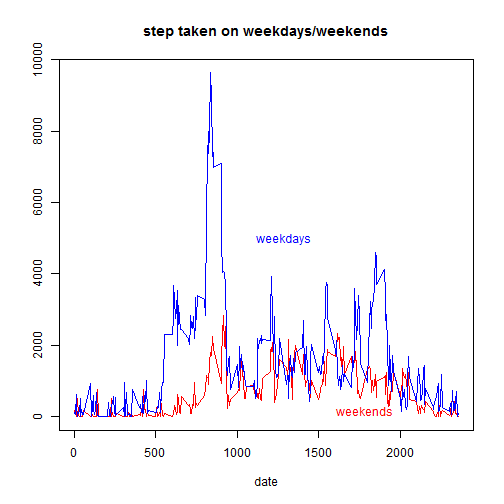
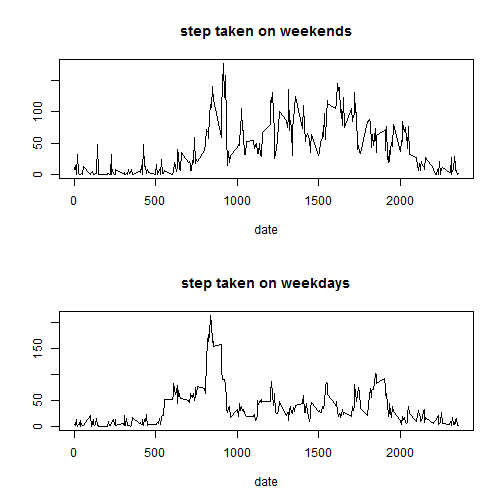
Bug removed
Change sum to mean in comparision weekends and weekdays

diff --git a/PA1_template.html b/PA1_template.html
@@ -295,17 +295,15 @@ hist(histdata2$x, main = &quot;total number of steps taken per day (with imputed
 </code></pre>
 
 <pre><code class="r">dataImputed$wd &lt;- (weekdays(dataImputed$date) == &quot;Saturday&quot; | weekdays(dataImputed$date) == &quot;Sunday&quot;)
-plotData &lt;- aggregate(dataImputed$steps,by=list(dataImputed$wd, dataImputed$interval),FUN=sum)
+plotData &lt;- aggregate(dataImputed$steps,by=list(dataImputed$wd, dataImputed$interval),FUN=mean)
 
 
-plot(plotData$Group.2,plotData$x,type=&quot;n&quot;, main=&quot;step taken on weekdays/weekends&quot;, xlab=&quot;date&quot;, ylab=&quot;&quot;)
-lines(plotData$Group.2[plotData$Group.1],plotData$x[plotData$Group.1], col=&quot;red&quot;)
-lines(plotData$Group.2[!plotData$Group.1],plotData$x[!plotData$Group.1], col=&quot;blue&quot;)
-text(x=1500,y=5000, labels=&quot;weekdays&quot;, col=&quot;blue&quot;, pos=2)
-text(x=2000,y=150, labels=&quot;weekends&quot;, col=&quot;red&quot;, pos=2)
+par(mfrow = c(2,1))
+plot(plotData$Group.2[plotData$Group.1],plotData$x[plotData$Group.1], type=&quot;l&quot;, main=&quot;step taken on weekends&quot;, xlab=&quot;date&quot;, ylab=&quot;&quot;)
+plot(plotData$Group.2[!plotData$Group.1],plotData$x[!plotData$Group.1], type = &quot;l&quot;, main=&quot;step taken on weekdays&quot;, xlab=&quot;date&quot;, ylab=&quot;&quot;)
 </code></pre>
 
[2 lines of base64/hex data omitted]
 
 </body>
 

diff --git a/PA1_template.md b/PA1_template.md
@@ -128,14 +128,12 @@ Sys.setlocale("LC_TIME", "US") # Just for the case one runs this script on compu
 
 ```r
 dataImputed$wd <- (weekdays(dataImputed$date) == "Saturday" | weekdays(dataImputed$date) == "Sunday")
-plotData <- aggregate(dataImputed$steps,by=list(dataImputed$wd, dataImputed$interval),FUN=sum)
+plotData <- aggregate(dataImputed$steps,by=list(dataImputed$wd, dataImputed$interval),FUN=mean)
 
 
-plot(plotData$Group.2,plotData$x,type="n", main="step taken on weekdays/weekends", xlab="date", ylab="")
-lines(plotData$Group.2[plotData$Group.1],plotData$x[plotData$Group.1], col="red")
-lines(plotData$Group.2[!plotData$Group.1],plotData$x[!plotData$Group.1], col="blue")
-text(x=1500,y=5000, labels="weekdays", col="blue", pos=2)
-text(x=2000,y=150, labels="weekends", col="red", pos=2)
+par(mfrow = c(2,1))
+plot(plotData$Group.2[plotData$Group.1],plotData$x[plotData$Group.1], type="l", main="step taken on weekends", xlab="date", ylab="")
+plot(plotData$Group.2[!plotData$Group.1],plotData$x[!plotData$Group.1], type = "l", main="step taken on weekdays", xlab="date", ylab="")
 ```
 
 ![plot of chunk unnamed-chunk-13](figure/unnamed-chunk-13.png) 
